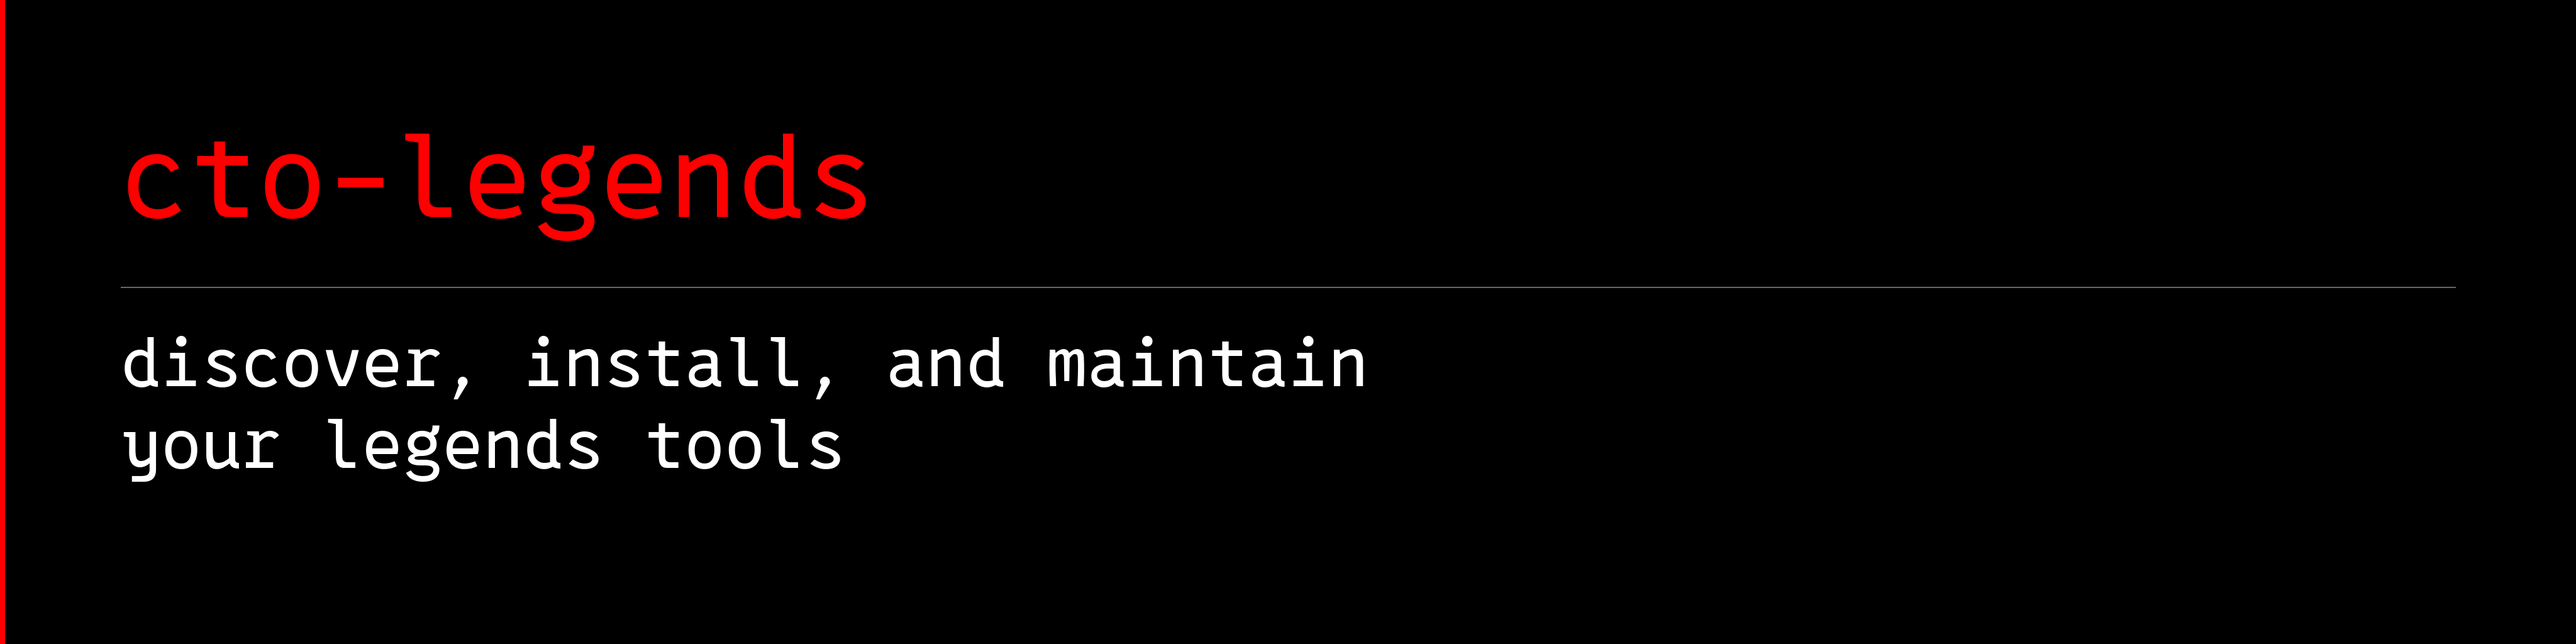
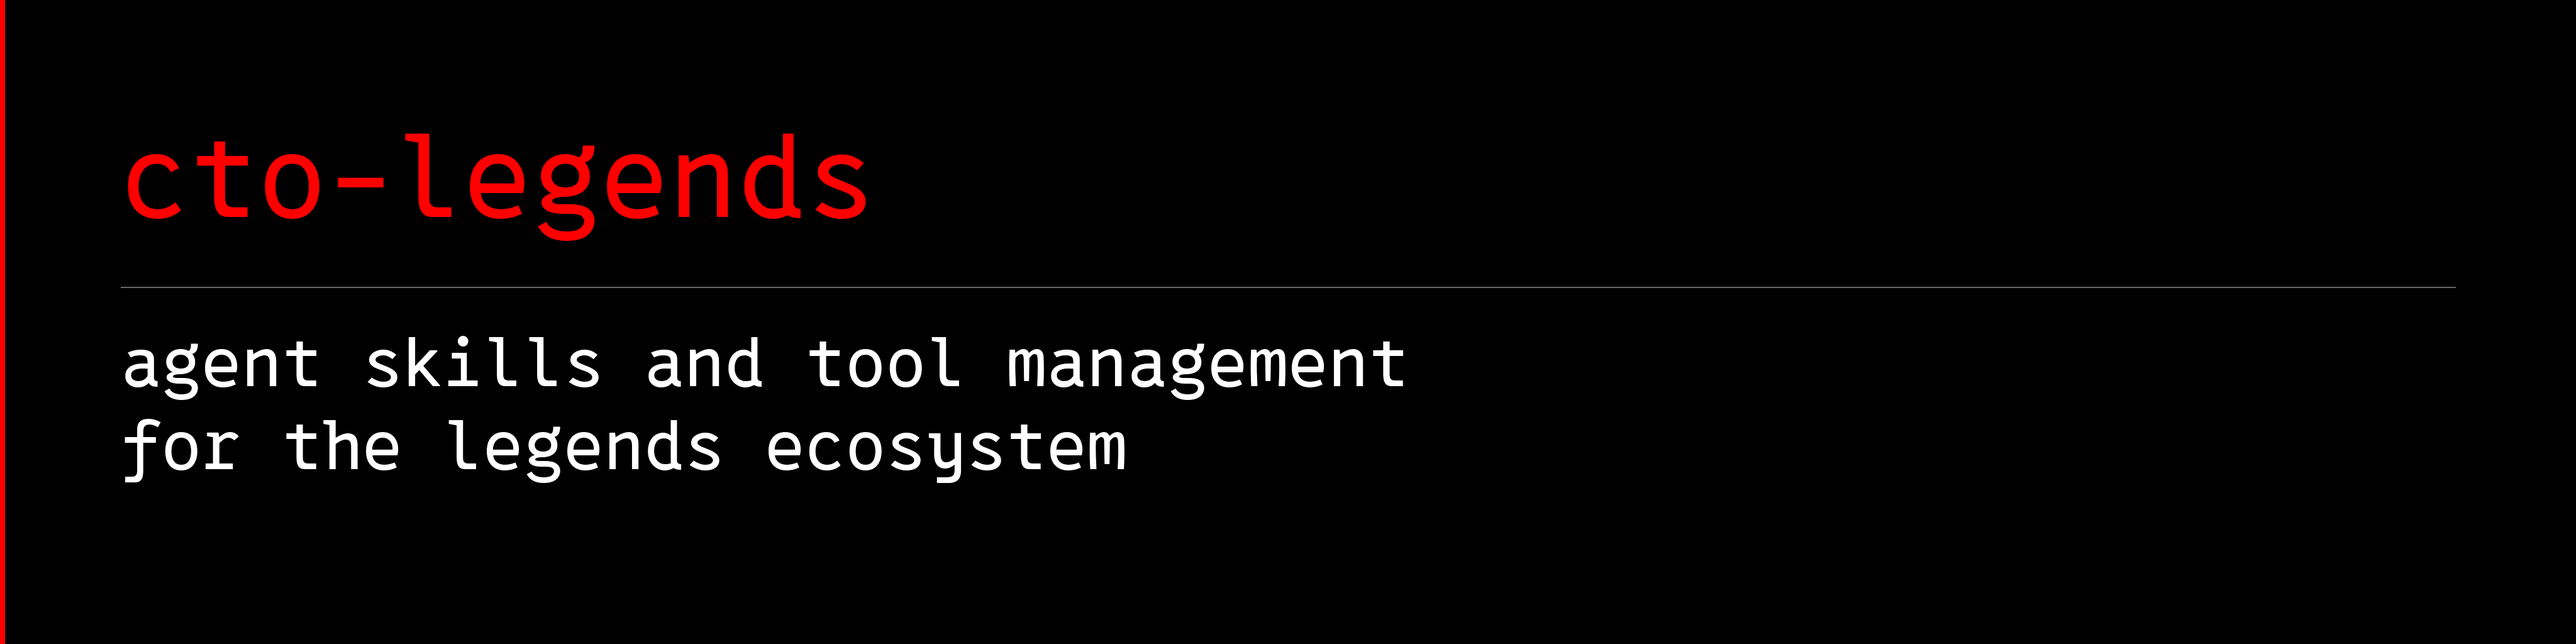
Apply search research and pin Legends GitHub 1.5.0

Changed region(s): [[0.0312, 0.5, 0.5625, 0.625], [0.0312, 0.6562, 0.4375, 0.75]]

diff --git a/cto_legends/__init__.py b/cto_legends/__init__.py
@@ -1,2 +1,2 @@
 """cto-legends: a small, agent-neutral ecosystem manager."""
-__version__ = "0.2.0"
+__version__ = "0.2.1"

diff --git a/README.md b/README.md
@@ -1,8 +1,8 @@
 <a name="cto-legends"></a>
 
-# ![cto-legends: discover, install, and maintain your legends tools](assets/banner.webp)
+# ![cto-legends: agent skills and tool management for the legends ecosystem](assets/banner.webp)
 
-**One front door to the Legends ecosystem. Install what your work needs.**
+**An open-source agent skills and tool manager for the Legends ecosystem.**
 
 [![checks](https://github.com/avalonreset/cto-legends/actions/workflows/checks.yml/badge.svg)](https://github.com/avalonreset/cto-legends/actions/workflows/checks.yml)
 [![release](https://img.shields.io/github/v/release/avalonreset/cto-legends)](https://github.com/avalonreset/cto-legends/releases)
@@ -10,7 +10,12 @@
 
 Tell your agent what you want to do. `cto-legends` helps it find the right module,
 install a verified version, and maintain the components you actually use.
-Each module remains its own open-source project.
+Each module remains its own open-source project. Register one central skill, then
+load specialized instructions only when a task needs them.
+
+This is a curated Legends module manager, not a directory of every third-party
+skill. It manages verified releases and separate tool environments, while your
+agent supplies the reasoning. [How agent skills and modules fit together](docs/AGENT-SKILLS.md).
 
 The central recipe targets **Grok, Codex, Gemini, Claude, Cursor, and MetaMuse**.
 Use the documented host registration or explicitly load the portable skill.
@@ -22,10 +27,10 @@ Python 3.10 or newer is required for the manager; use Python 3.11+ to include Ob
 or MCP server is needed to install the ecosystem manager.
 
 From a source checkout, install with `python -m pip install .`. The release
-wheel command below installs the v0.2.0 release.
+wheel command below installs the v0.2.1 release.
 
 ```sh
-python -m pip install "https://github.com/avalonreset/cto-legends/releases/download/v0.2.0/cto_legends-0.2.0-py3-none-any.whl"
+python -m pip install "https://github.com/avalonreset/cto-legends/releases/download/v0.2.1/cto_legends-0.2.1-py3-none-any.whl"
 cto-legends route "Google Maps ranking grids"
 cto-legends install legends-geogrid
 cto-legends install legends-geogrid --apply
@@ -36,7 +41,7 @@ If your scripts directory is not on PATH, use `python -m cto_legends` instead
 of `cto-legends`. Installation previews are offline. `--apply` downloads source
 and Python dependencies; it never runs paid research.
 
-## Give your agent the map
+## Install agent skills for your chosen host
 
 Copy the included routing skill into **your chosen agent's skill directory**:
 
@@ -61,7 +66,7 @@ depends on your agent's configuration. No plugin host is required.
 |---|---|---|
 | [legends-geogrid](https://github.com/avalonreset/legends-geogrid) 0.4.0 | Google Maps rank grids and local visibility | Research workflow + report libraries + DataForSEO Kit 0.4.0 |
 | [legends-dataforseo-kit](https://github.com/avalonreset/legends-dataforseo-kit) 0.4.0 | Search, keywords, API documentation, queued research | Python library + CLI |
-| [legends-github](https://github.com/avalonreset/legends-github) 1.4.0 | Repository audits, README, metadata, release preparation | Headless workflows + declared research transport 0.3.0 |
+| [legends-github](https://github.com/avalonreset/legends-github) 1.5.0 | Repository audits, README, metadata, release preparation | Headless workflows + live research transport 0.4.0 |
 | [legends-stable-audio-3](https://github.com/avalonreset/legends-stable-audio-3) 0.4.1 | Instrumental music, sound effects, continuous mixes | Python planning CLI + bundled operating skill; model/GPU setup separate |
 | [legends-obs-kit](https://github.com/avalonreset/legends-obs-kit) 0.4.0 | OBS recording, scenes, settings, verification | Prebuilt CLI; requires Node.js 22+; live control targets Windows |
 | [legends-obsidian](https://github.com/avalonreset/legends-obsidian) 2.3.0 | Source-cited vault memory and research evidence | Python 3.11+; POSIX/WSL required for vault writes |
@@ -188,7 +193,7 @@ For an existing local product not in the public catalog:
 This registers a guide only: no installation, update, execution or readiness
 claim. Such guides appear in `status`, stay private, and remain user-managed.
 
-The published v0.2.0 wheel linked above includes these commands.
+The published v0.2.1 wheel linked above includes these commands.
 
 See [agent discovery and readiness](docs/AGENT-HOSTS.md) for the distinction between registration, discovery, and an operational host.
 

diff --git a/docs/SEARCH-STRATEGY.md b/docs/SEARCH-STRATEGY.md
@@ -1,0 +1,52 @@
+# Search positioning evidence
+
+Collected 2026-09-23 through Legends GitHub and DataForSEO Kit v0.4.0.
+United States (2840), English, desktop organic SERPs, depth 10.
+22 keyword candidates across two batches; six exact search-result queries.
+Provider-reported total cost: $0.03756. No measured ranking or traffic uplift.
+
+## Positioning decision
+
+Lead with agent skills and tool management for the Legends ecosystem. This
+matches the central instruction router, curated installer and isolated runtimes.
+The product is not an unrestricted third-party skills marketplace or an AI model.
+
+| Keyword | US monthly estimate | Decision |
+| --- | ---: | --- |
+| agent skills | 8100 | Primary category, qualified by the actual manager function. |
+| ai agent skills | 720 | Supporting concept in natural explanatory copy. |
+| codex skills | 4400 | Relevant host setup intent, not the exclusive brand. |
+| claude code skills | 12100 | Relevant host setup intent; no claim of complete native parity. |
+| cursor skills | 2900 | Supporting host guide context. |
+| gemini cli skills | 480 | Supporting host guide context. |
+| ai agent toolkit | 30 | Related but less precise. |
+| ai tools | 40500 | Too broad for primary positioning. |
+| ai coding assistant | 18100 | Reject: the manager is not a coding assistant. |
+
+Unreturned phrases, including agent skills manager and skill installer, have
+unknown volume, not zero. Keyword estimate timestamps range September 12-17 in
+the first batch; collection time is not the underlying metric update time.
+
+## Observed search intent
+
+`agent skills` returned a GitHub skill collection and platform documentation.
+`agent skills manager` and `ai agent skills manager` returned manager projects,
+including github.com/umutbozdag/agent-skills-manager and
+ github.com/xingkongliang/skills-manager. Their presence establishes category
+relevance, not feature superiority or attainable ranking for this repository.
+`install agent skills` returned instructional documentation, supporting the new
+installation explainer. `skill installer` overlapped host-specific skill tools.
+`open source agent tools` returned framework and orchestration content, so it
+was rejected as the primary positioning.
+
+## Applied and measurable
+
+Updated the banner subtitle, README opening and installation heading; added an
+agent skills explainer. Selected descriptive repository topics rather than
+machine-generated word pairs. Keep the six-host scope and actual limitations.
+Raw provider responses and receipts are retained in the maintainer's research
+archive. No competitor feature claims were inferred from search snippets.
+
+After a comparable observation period, inspect available GitHub traffic and
+referrers and repeat the exact category SERPs. Record unavailable analytics as
+unknown. Publishing these changes is not evidence of improved rankings.

diff --git a/docs/AGENT-SKILLS.md b/docs/AGENT-SKILLS.md
@@ -1,0 +1,38 @@
+# Agent skills and tool management
+
+An agent skill is a set of instructions an agent can read to perform a task.
+A Legends module can also contain executable tools and dependencies. Registering
+instructions does not install a browser, a model, or provider credentials.
+
+## One registered skill, specialized tools on demand
+
+Install cto-legends using the release command in the README. Preview registration
+with `cto-legends agent-setup codex` or `cto-legends agent-setup gemini`, then add
+`--apply`. Claude, Cursor, Grok and MetaMuse have documented registration paths
+or explicit loading instructions in [the host guide](AGENT-HOSTS.md).
+
+Ask your agent to use cto-legends for the desired task. The router chooses a
+module; `install MODULE` previews its setup and `install MODULE --apply` installs
+it. `doctor` checks the installed tools. Separate module environments preserve
+package dependencies instead of merging every tool into one Python environment.
+
+## Choose the right level of installation
+
+| Need | Appropriate path |
+| --- | --- |
+| Read a standalone skill | Use the host's skill loader or load its Markdown explicitly. |
+| Operate a Legends workflow with tools | Use cto-legends to install its cataloged module and inspect its guide. |
+| Use an unrelated third-party skill | Follow that project's installation instructions. |
+| Store research in a vault | Install Legends Obsidian and explicitly select the vault. |
+
+The central recipe is shared, but native skill discovery differs by application.
+Grok, Codex, Gemini, Claude, Cursor and MetaMuse still need file and command
+access for execution. See the host guide for readiness limits. Installing a
+skill does not prove a host can execute every module.
+
+## Keep modules current
+
+Use `status` to inspect installed versions and `update MODULE` to preview an
+update before applying it. Module versions remain independent of the manager.
+Upgrading the manager provides its newer catalog; it does not silently run paid
+research or replace the user's reports and vault.
